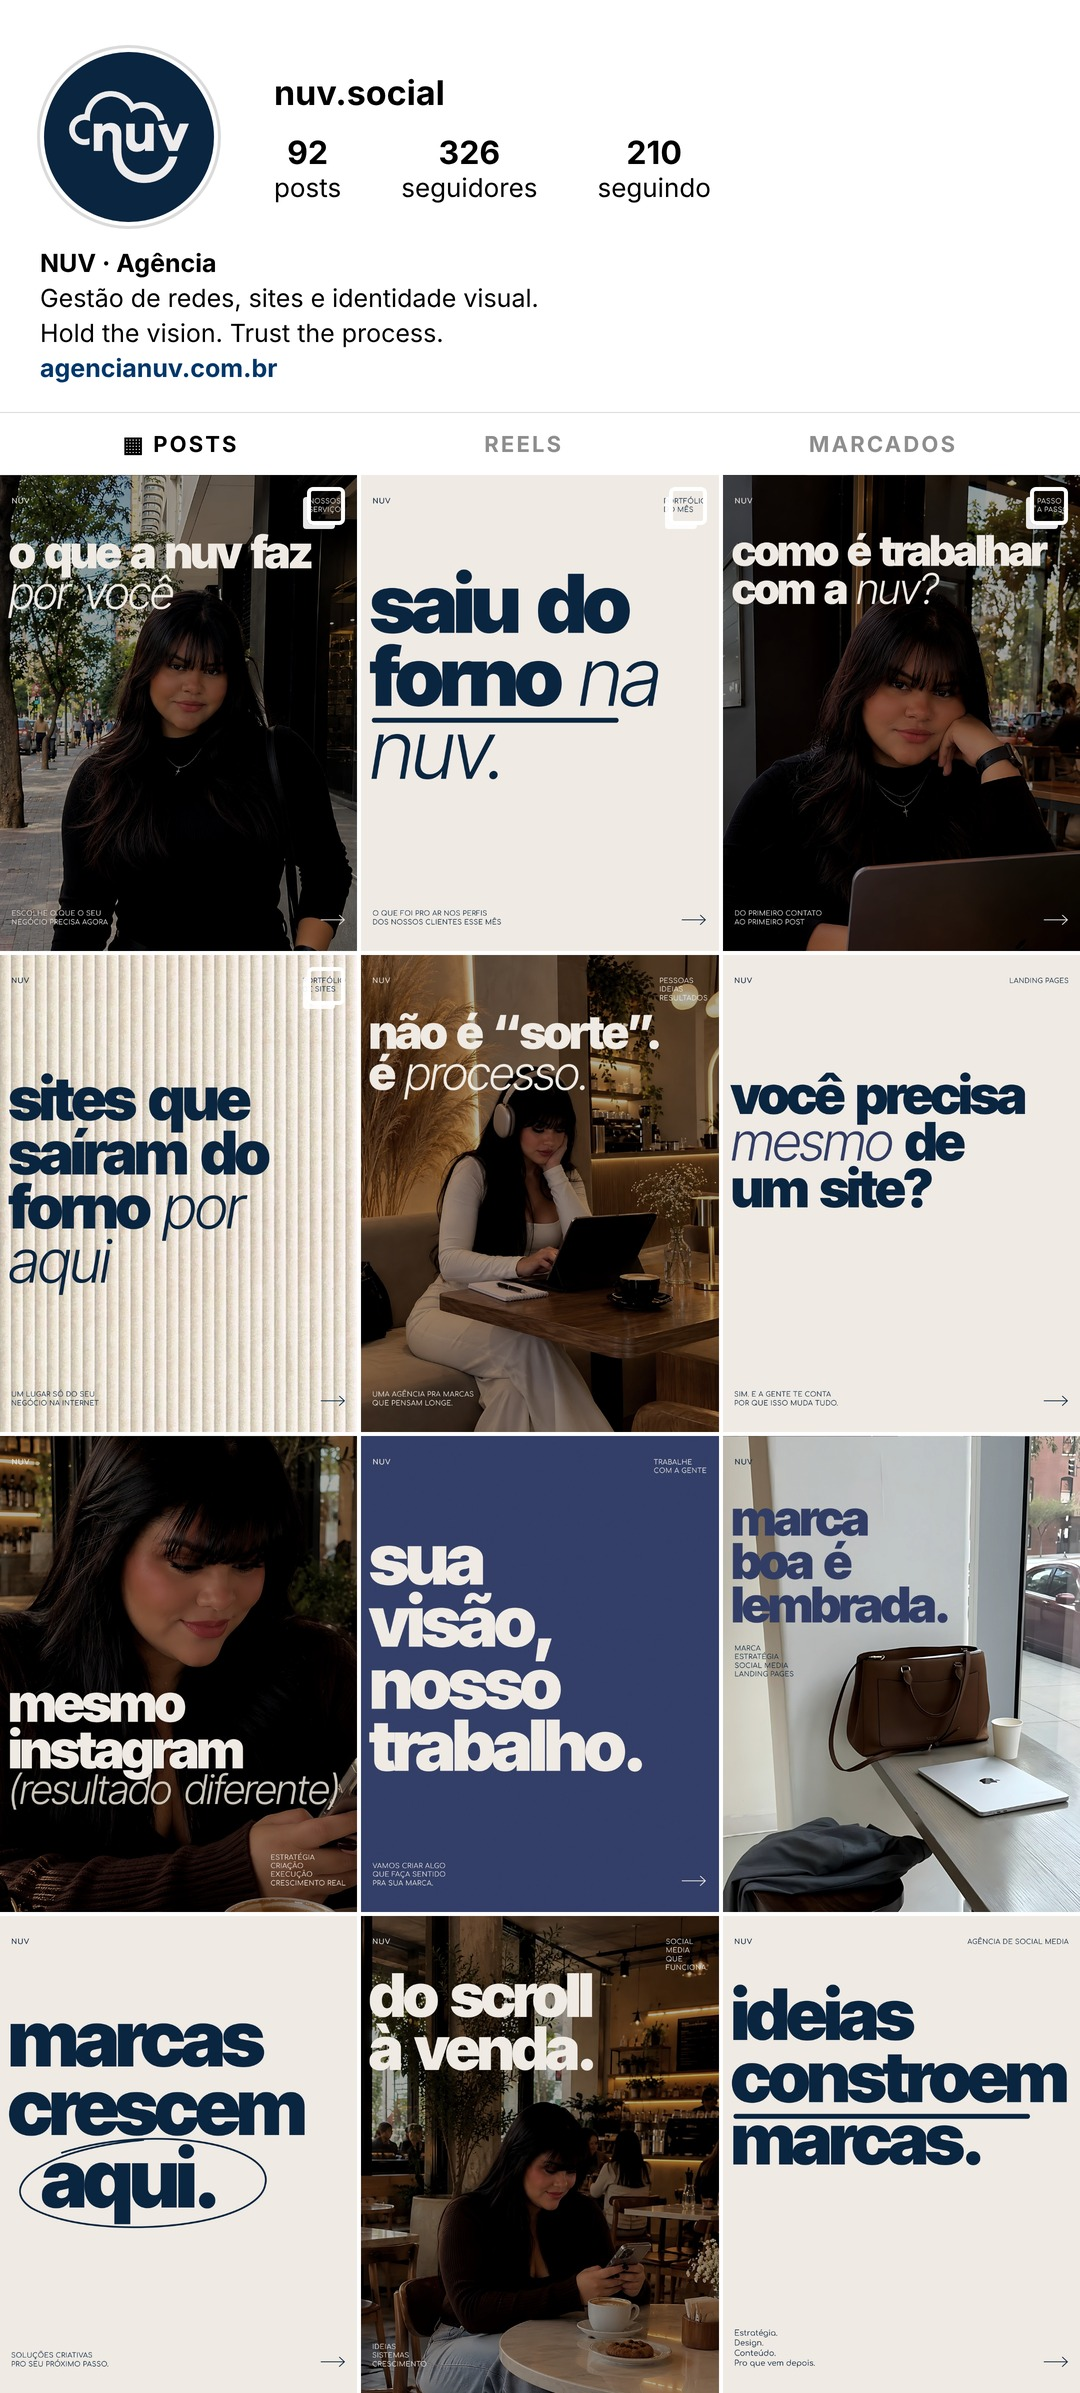
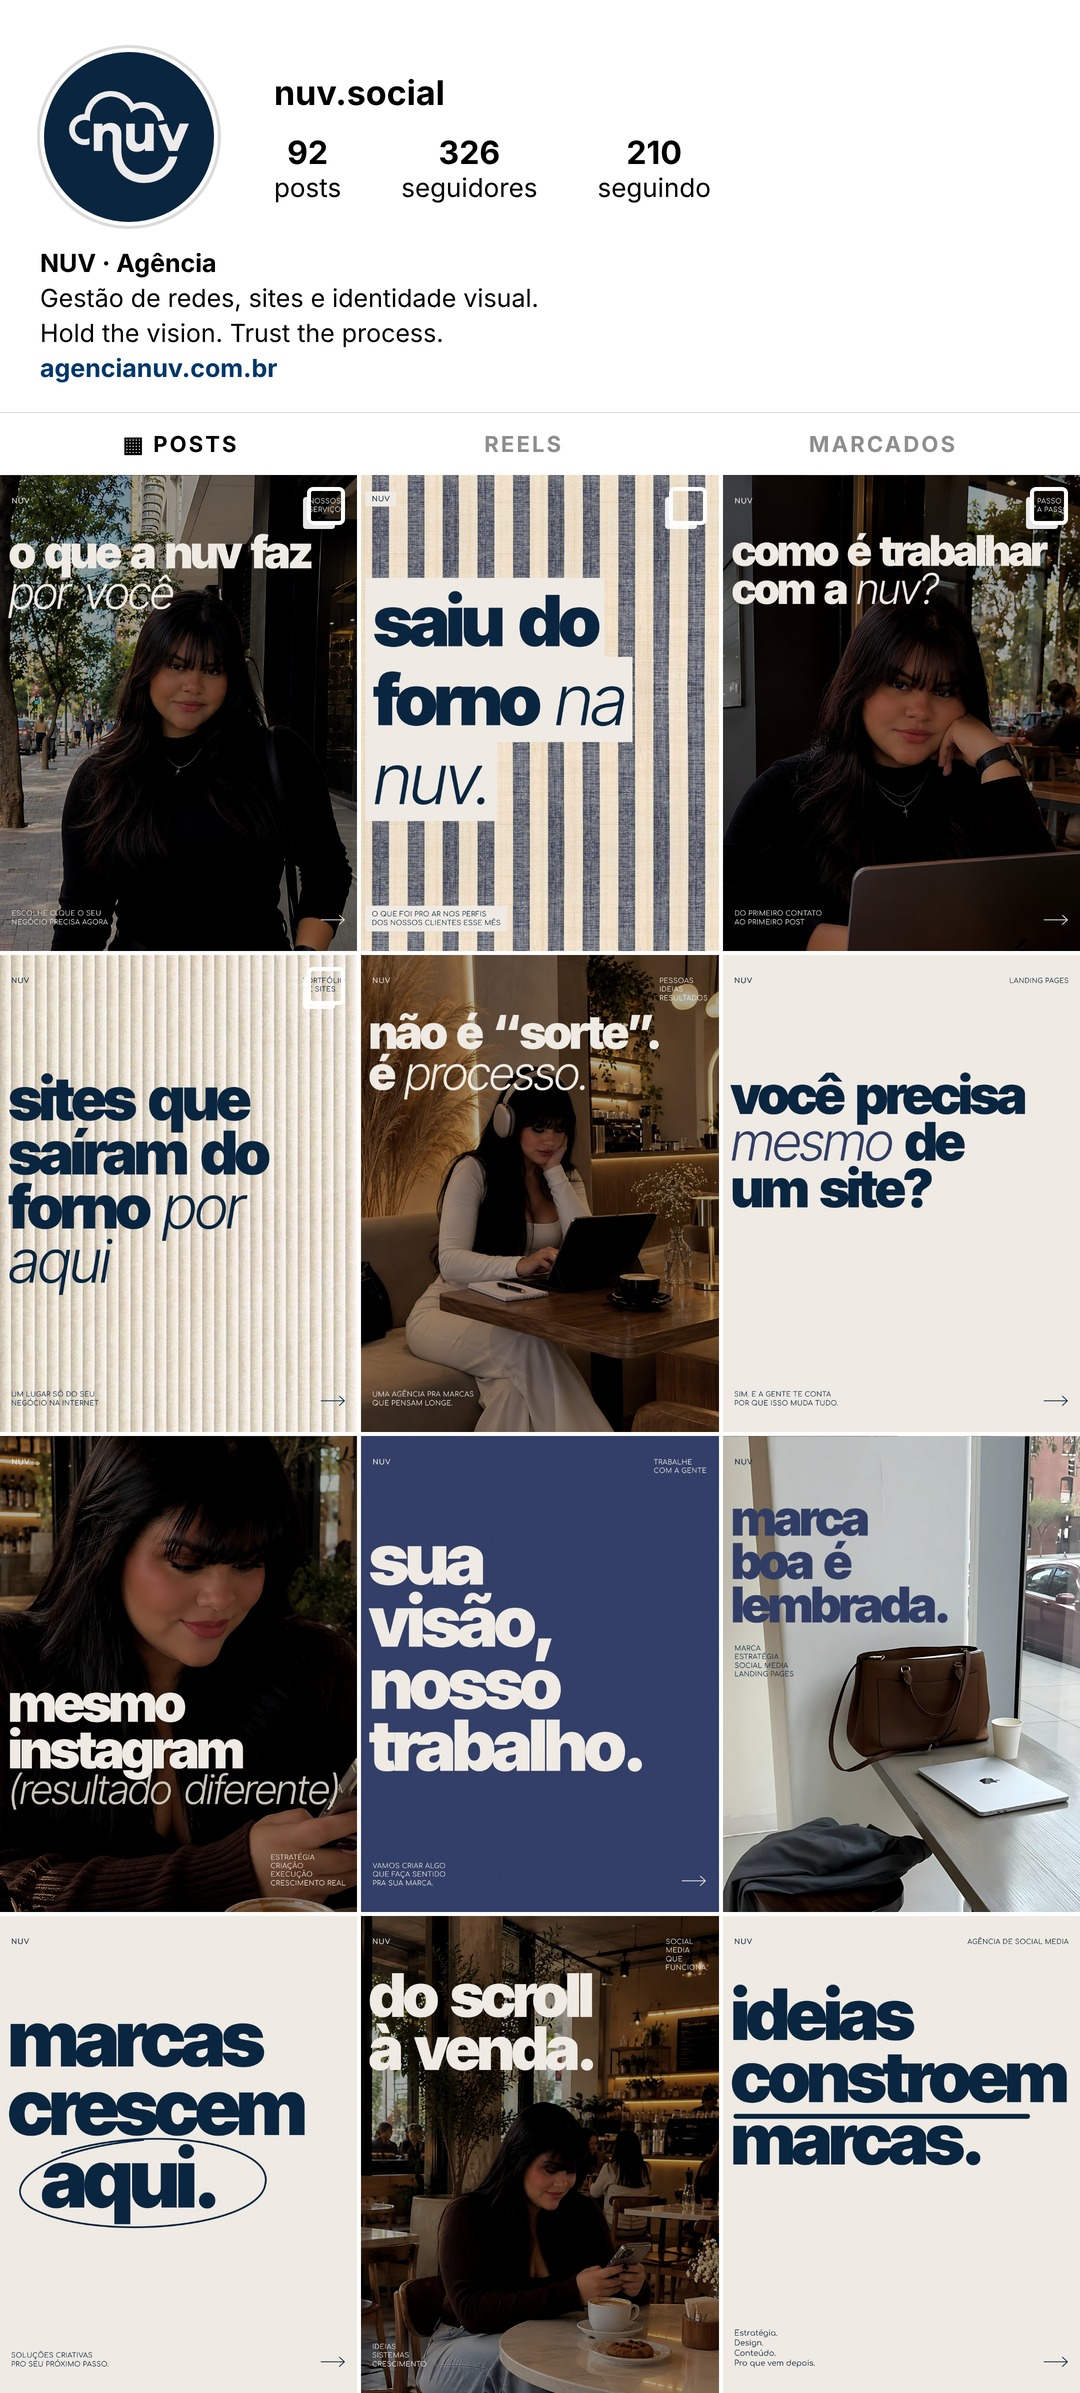
Saiu do forno cover on the striped texture with highlight-block title
Claude-Session: https://claude.ai/code/session_01EMPiZm8vwXxfPYZ7GnxN3Y

Changed region(s): [[0.3361, 0.1855, 0.6722, 0.402]]

diff --git a/nuv-posts-trello/index.html b/nuv-posts-trello/index.html
@@ -130,10 +130,10 @@ const POSTS = {
   ],
   // Card "Saiu do forno na NUV (portfólio de conteúdos, fixar)": grade com espaços pros conteúdos dos clientes
   saiu_do_forno: [
-    [false, `${BRAND(C.navy)}${LAB('portfólio<br>do mês', C.navy)}
-      <div class="abs H" style="left:58px;top:260px;width:960px;font-size:230px;color:${C.navy}">saiu do forno <em>na nuv.</em></div>
-      <div class="abs" style="left:64px;top:688px;width:700px;height:14px;background:${C.navy};border-radius:7px"></div>
-      ${FOOT('o que foi pro ar nos perfis<br>dos nossos clientes esse mês', C.navy)}${ARROW(C.navy)}`],
+    [false, `${box(0, 0, 1080, 1350, photo('listras', 1080, 1350, .5, .5))}
+      <div class="abs" style="left:46px;top:46px;padding:10px 18px;background:${C.off};font-weight:700;font-size:20px;letter-spacing:.06em;color:${C.navy}">NUV</div>
+      <div class="abs H" style="left:46px;top:300px;width:1000px;font-size:200px;line-height:1.12;color:${C.navy}"><span style="background:${C.off};padding:0 22px;box-decoration-break:clone;-webkit-box-decoration-break:clone">saiu do forno <em>na nuv.</em></span></div>
+      <div class="abs s" style="left:46px;bottom:56px;padding:12px 18px;background:${C.off};color:${C.navy}">o que foi pro ar nos perfis<br>dos nossos clientes esse mês</div>`],
     [false, `${box(0, 0, 1080, 1350, photo('listras', 1080, 1350, .5, .5))}<div class="abs" style="left:40px;top:40px;right:40px;bottom:40px;background:${C.off};border-radius:24px"></div>${BRAND(C.navy)}${LAB('portfólio<br>do mês', C.navy)}
       <div class="abs" style="left:66px;right:66px;top:250px;display:flex;gap:24px">
         ${['sindicato', 'despacho aduaneiro', 'planejamento financeiro'].map(n => `<div style="flex:1">
